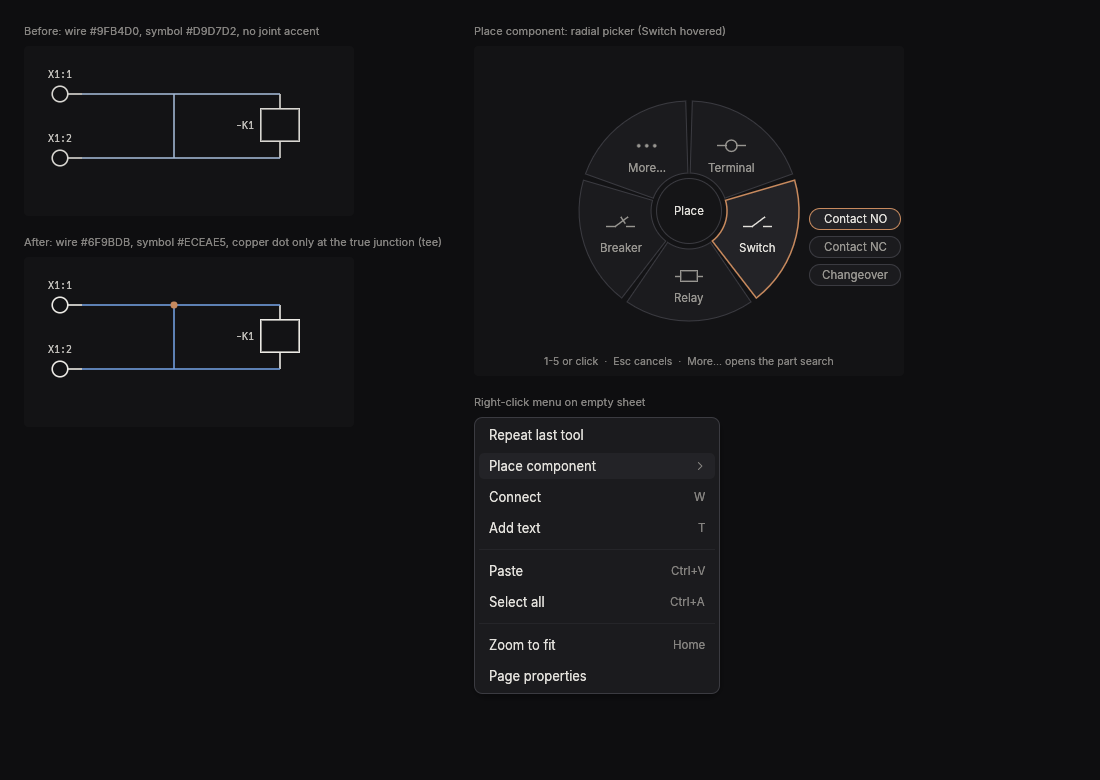
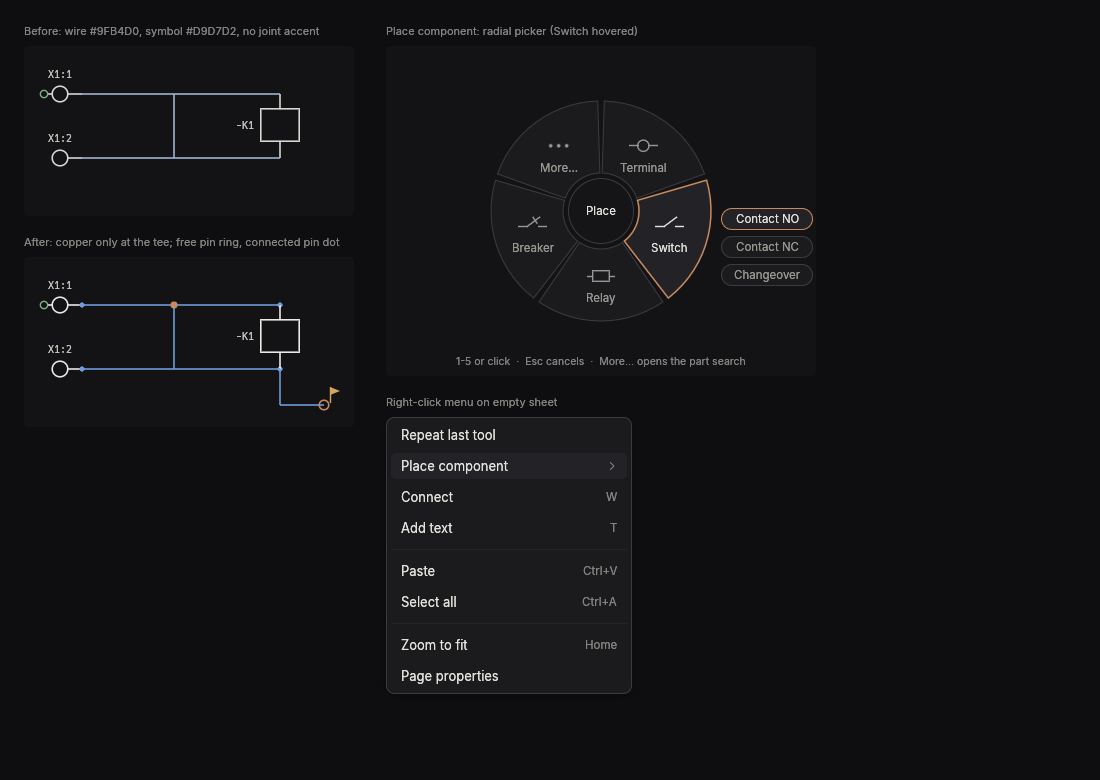
Design: pins ring/dot, copper only at junctions, open end ring and flag back
Claude-Session: https://claude.ai/code/session_01UXbCeQW22y6tv74F2Xvbvm

diff --git a/crates/novo-theme/src/canvas.rs b/crates/novo-theme/src/canvas.rs
@@ -60,8 +60,8 @@ pub struct CanvasPalette {
     /// the same copper dot as the logo. Darker than the selection, which
     /// also gets a halo and a thicker line, so a selected net is told apart.
     pub junction: [u8; 4],
-    /// Open ring on a wire end that was terminated unconnected. Held back
-    /// until DESIGN §4 defines that case and the check it raises.
+    /// Open ring on a wire end that was terminated unconnected. The case
+    /// and its Warning are defined in DESIGN §4.
     pub wire_end: [u8; 4],
     /// The small flag beside an unconnected wire end.
     pub unconnected_flag: [u8; 4],

diff --git a/docs/design/ui-guidelines.md b/docs/design/ui-guidelines.md
@@ -123,9 +123,12 @@ straight run, corner, crossing or a wire ending on a pin). Joints are not
 marks (marks are proposals, problems, overrides and changes), and the
 selection never relies on colour alone: it is also 2.5 px thicker with a
 halo, and junctions are fixed-size dots, so a selected net stays
-unmistakable without colour vision. `wire_end` (open ring) and
-`unconnected_flag` (amber) are palette entries held back until DESIGN §4
-defines a wire ended unconnected and the check it raises. The radial place picker (five wedges: Terminal,
+unmistakable without colour vision. Pins: a free pin is a hollow ring
+(open-connection green, r 3), a connected pin a small filled dot in the wire
+colour (r 2.5), so a pin end never looks like a junction. A wire ended
+unconnected (DESIGN §4, the `wire.open` Warning) gets an open copper ring
+(`wire_end`, r 4, 1.6 px line) and an amber flag (`unconnected_flag`, 16 px
+pole, 10 px pennant) with the tooltip "Unconnected". The radial place picker (five wedges: Terminal,
 Switch, Relay, Breaker, More...; inner radius 38, outer 110, hovered wedge
 copper outline, its items as pills on an outer ring) and the
 right-click menu (26 px rows, 236 px wide, shortcut right-aligned) are in
